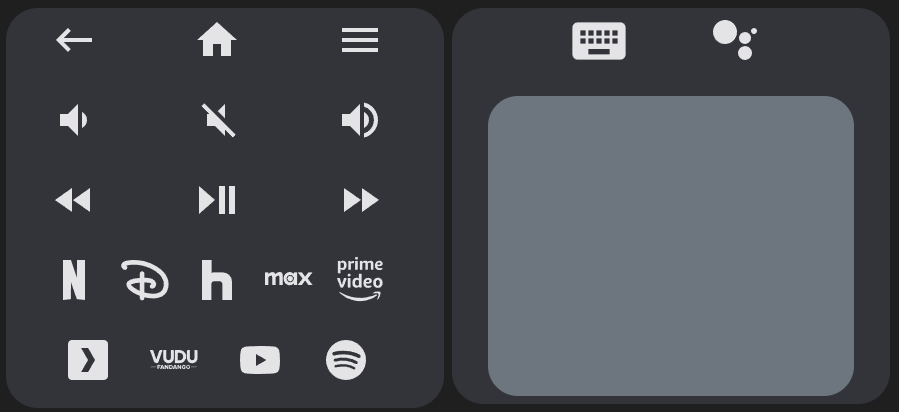
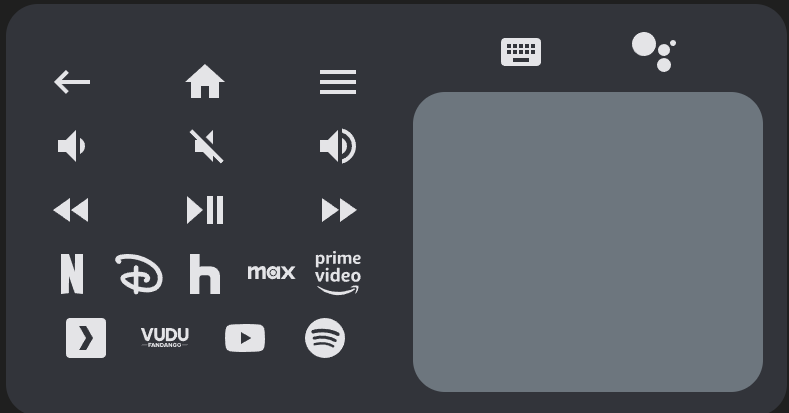
updated tablet example and added even more disorder example

diff --git a/README.md b/README.md
@@ -510,16 +510,14 @@ rows:
 
 ### Example 5
 
-A tablet UI
+A tablet UI using columns
 
 ```yaml
-type: horizontal-stack
-cards:
-  - type: custom:android-tv-card
-    remote_id: remote.google_chromecast
-    media_player_id: media_player.google_chromecast
-    rows:
-      - - back
+type: custom:android-tv-card
+remote_id: remote.google_chromecast
+alt_volume_icons: true
+rows:
+  - - - - back
         - null
         - home
         - null
@@ -543,24 +541,10 @@ cards:
         - vudu
         - youtube
         - spotify
-    custom_keys:
-      volume_down:
-        icon: mdi:volume-medium
-        service: script.amplifier_volume_down
-      volume_mute:
-        icon: mdi:volume-mute
-        service: script.amplifier_volume_mute
-      volume_up:
-        icon: mdi:volume-high
-        service: script.amplifier_volume_up
-  - type: custom:android-tv-card
-    remote_id: remote.google_chromecast
-    adb_id: media_player.google_chromecast_adb
-    rows:
-      - - keyboard
+    - - - keyboard
         - search
       - - navigation_touchpad
-    touchpad_height: 300px
+touchpad_height: 300px
 ```
 
 Result:
@@ -748,6 +732,32 @@ custom_keys:
       entity_id: media_player.marantz_sr7013
       command: /goform/formiPhoneAppDirect.xml?MNRTN
 ```
+
+### Example 10
+
+Even more disorder with columns and special elements in the same row as buttons
+
+```yaml
+type: custom:android-tv-card
+remote_id: remote.lounge_google_tv
+rows:
+  - - - home
+      - menu
+      - back
+      - keyboard
+    - - netflix
+      - hulu
+      - disney
+      - max
+      - primevideo
+    - navigation_touchpad
+  - - volume_slider
+    - search
+```
+
+Result:
+
+<img src="assets/more_disorder.png" alt="more disorder example" width="500"/>
 
 [last-commit-shield]: https://img.shields.io/github/last-commit/Nerwyn/android-tv-card?style=for-the-badge
 [commits]: https://github.com/Nerwyn/android-tv-card/commits/main
